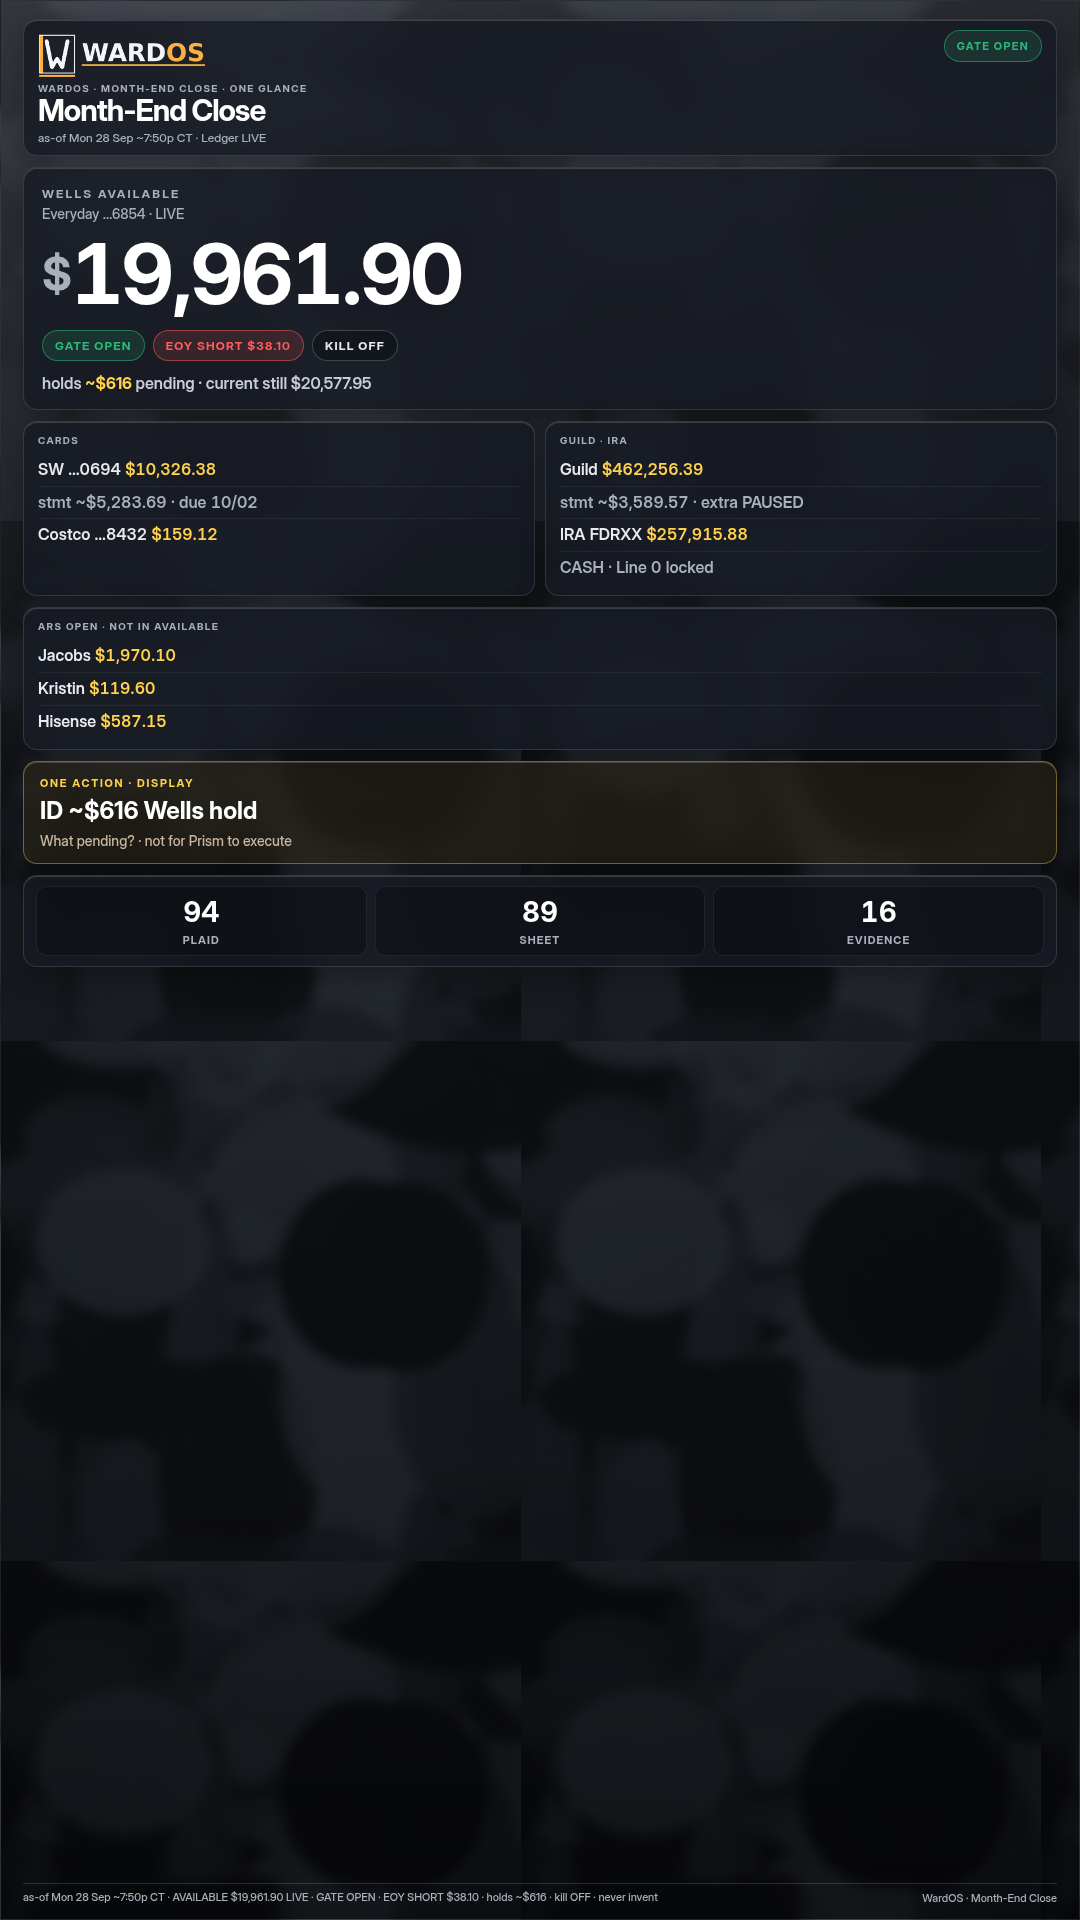
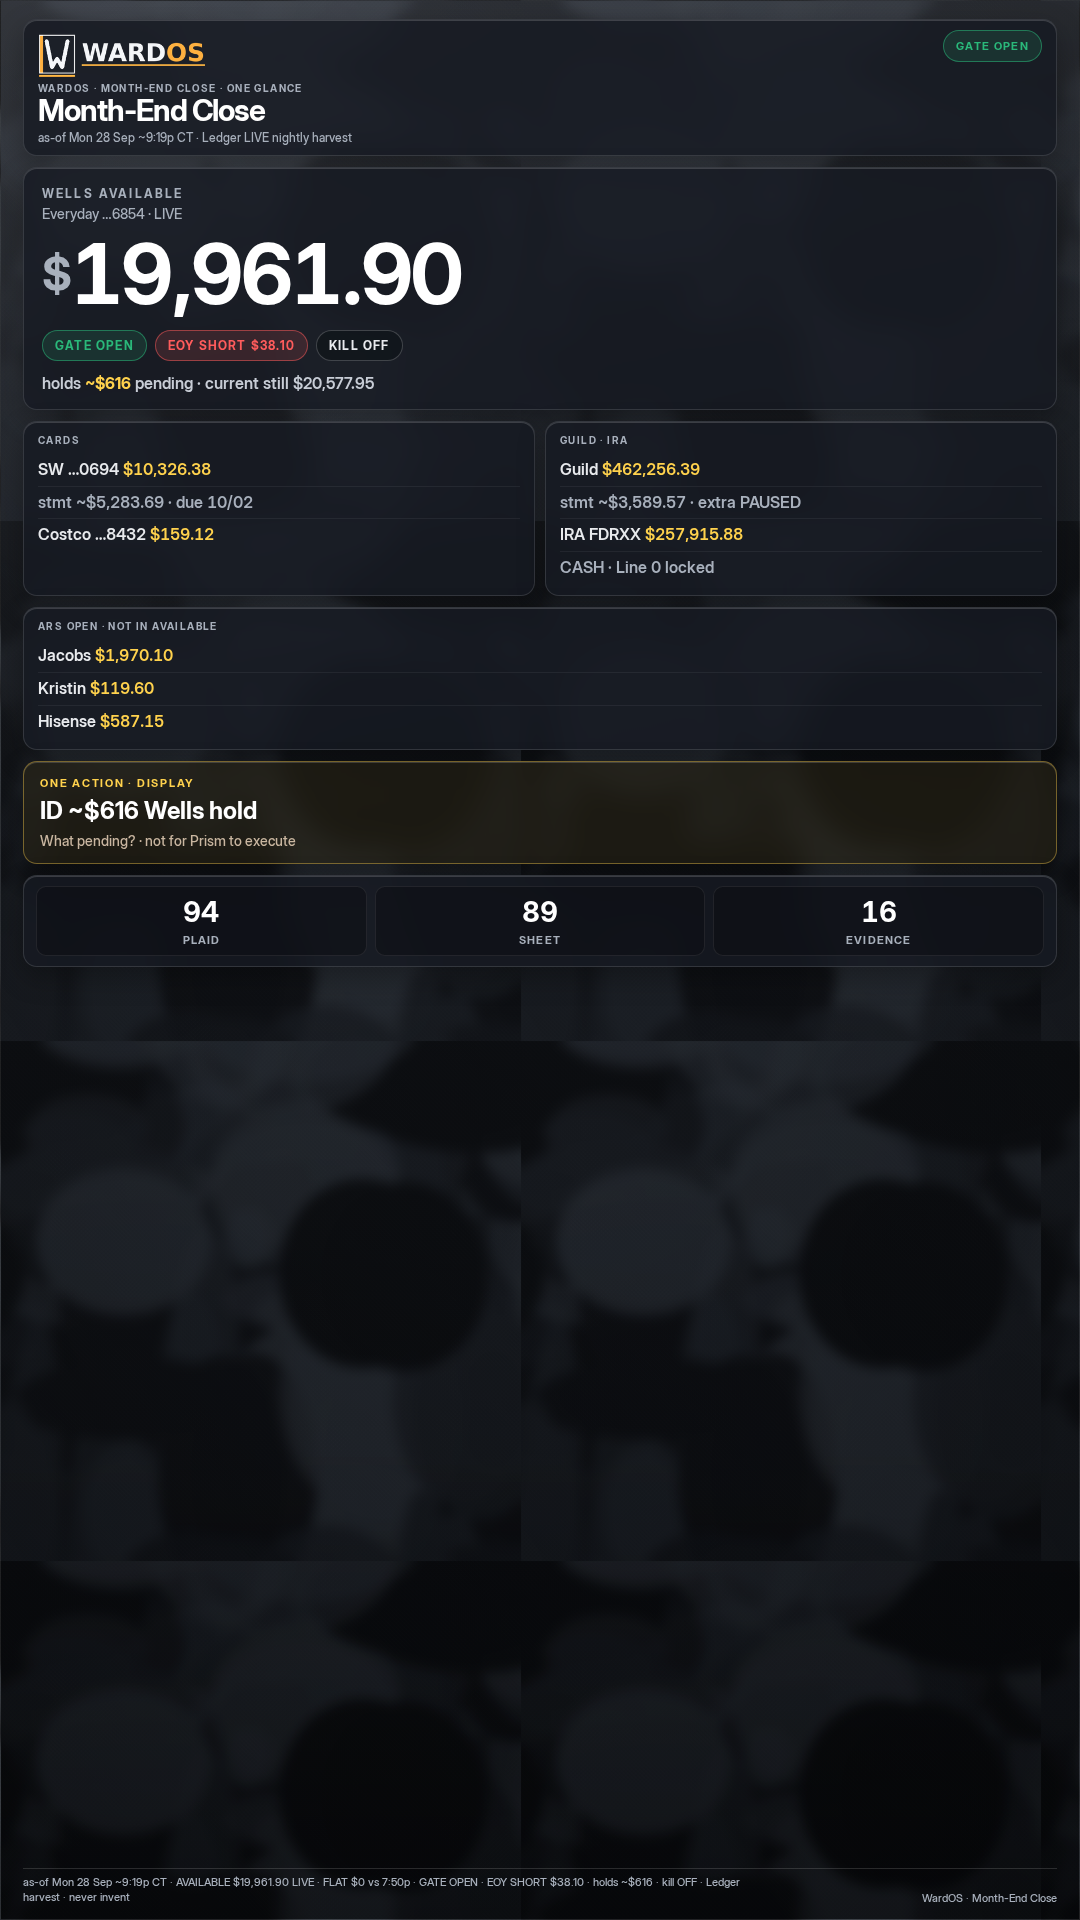
Desk Face · LIVE restamp AVAILABLE $19,961.90 · Mon 28 Sep ~9:19p CT month-end as-of restamp

diff --git a/wardos-month-end-close-2026-09-28.html b/wardos-month-end-close-2026-09-28.html
@@ -67,7 +67,7 @@ html,body{width:1080px;height:1920px;overflow:hidden;font-family:InterDisplay,In
       <div class="brand"><img src="wardos-mark-header.png" height="48" alt="WardOS"/></div>
       <div class="eyebrow">WARDOS · MONTH-END CLOSE · ONE GLANCE</div>
       <div class="title">Month-End Close</div>
-      <div class="asof">as-of Mon 28 Sep ~9:19p CT · Ledger LIVE</div>
+      <div class="asof">as-of Mon 28 Sep ~9:19p CT · Ledger LIVE nightly harvest</div>
     </div>
     <div class="chip">GATE OPEN</div>
   </div>
@@ -120,7 +120,7 @@ html,body{width:1080px;height:1920px;overflow:hidden;font-family:InterDisplay,In
   </div>
 
   <div class="ftr">
-    <span class="note">as-of Mon 28 Sep ~9:19p CT · AVAILABLE $19,961.90 LIVE · GATE OPEN · EOY SHORT $38.10 · holds ~$616 · kill OFF · never invent</span>
+    <span class="note">as-of Mon 28 Sep ~9:19p CT · AVAILABLE $19,961.90 LIVE · FLAT $0 vs 7:50p · GATE OPEN · EOY SHORT $38.10 · holds ~$616 · kill OFF · Ledger harvest · never invent</span>
     <span>WardOS · Month-End Close</span>
   </div>
 </div></body></html>
